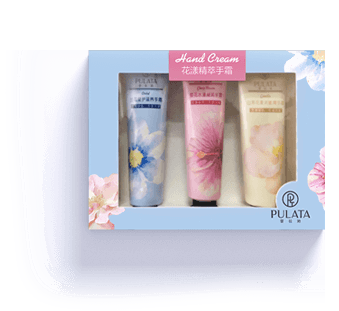
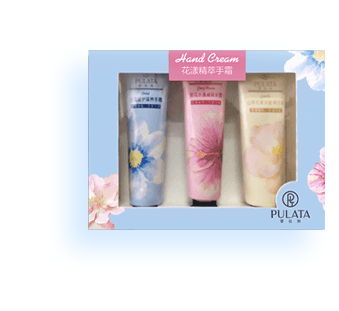
滋润护肤显示问题

Changed region(s): [[0.1475, 0.1736, 0.9735, 0.926]]

diff --git a/resources/views/home/newweb.blade.php b/resources/views/home/newweb.blade.php
@@ -412,7 +412,7 @@
                 <div class="col-lg-4 col-md-4 cons">
                     <div class="col-lg-12 col-md-12 bg">
                         <div class="col-lg-12 col-md-12 img">
-                            <img src="/images/web/zirun3.png" alt="">
+                            <img src="/images/web/zirun3.png" style="max-width: 300px" alt="">
                         </div>
                         <div class="col-lg-12 col-md-12">
                             <div class="line"></div>
